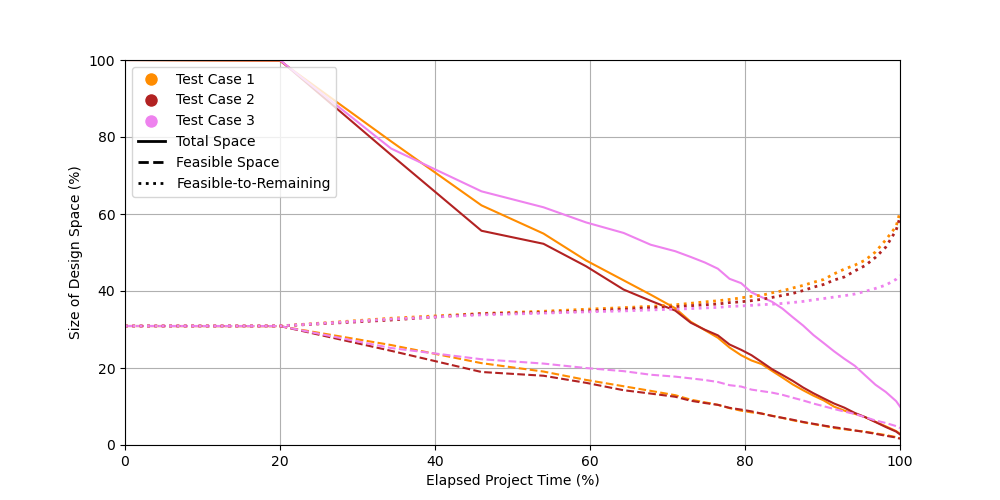
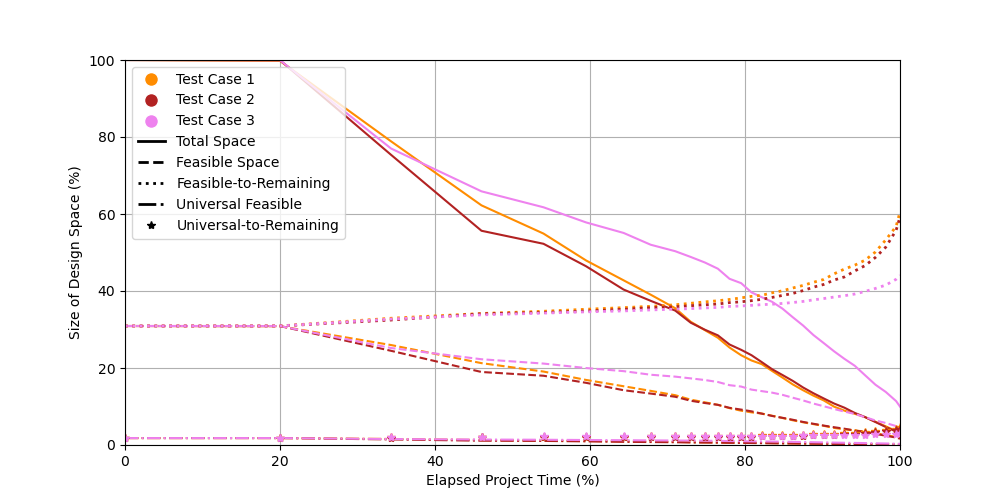
Updated data and figures

Changed region(s): [[0.124, 0.84, 0.899, 0.9], [0.124, 0.39, 0.341, 0.48], [0.341, 0.21, 0.372, 0.24]]

diff --git a/Python Code/Simulation_Results_DC_Reqs_1depth/plot_data.py b/Python Code/Simulation_Results_DC_Reqs_1depth/plot_data.py
@@ -20,46 +20,39 @@ from matplotlib.lines import Line2D
 """
 SECONDARY FUNCTION
 """
-def plotData(data, label_prefix, linestyle, colors, color_idx):
+def plotData(data, label_prefix, linestyle, colors, color_idx, marker=None):
     """
-    Description
-    -----------
     Plots data points for each test case within a given dataset.
-
+    
     Parameters
     ----------
     data : Dictionary
-        Each key is a test case identifier and each value is another dictionary
+        Each key is a test case identifier, and each value is another dictionary
         mapping iteration numbers to data points.
     label_prefix : String
         A prefix for the label that will be added before each test case's
-        identifier in the plot legend
+        identifier in the plot legend.
     linestyle : String
-        Style of line for plotting
+        Style of line for plotting. Use 'None' for no line.
     colors : List
-        Color of line for plotting
+        List of colors for plotting lines.
     color_idx : Integer
         Current position in the `colors` list from which to start coloring the
-        plotted lines
+        plotted lines.
+    marker : String, optional
+        Marker style. Default is None, which means no marker.
 
     Returns
     -------
     color_idx : Integer
-        Updated position in the `colors` list
+        Updated position in the `colors` list.
     """
     
-    # Loop through each test case's data
     for test_case, data_points in data.items():
-        
-        # Sort data points by its time iteration keys
         sorted_data_points = sorted(data_points.items(), key=lambda x: x[0])
-        
-        # Find maximum of sorted data
         max_iteration = max(sorted_data_points, key=lambda x: x[0])[0]
         
-        # Gather x and y data point percentages
-        x_values = [iteration / max_iteration * 100 \
-                    for iteration, _ in sorted_data_points]
+        x_values = [iteration / max_iteration * 100 for iteration, _ in sorted_data_points]
         y_values = [value for _, value in sorted_data_points]
         
         # Define custom linewidth for particular line styles
@@ -68,83 +61,60 @@ def plotData(data, label_prefix, linestyle, colors, color_idx):
         else:
             linewidth = 1.5
         
-        # Plot the data
-        plt.plot(x_values, y_values, label=f'{test_case} ({label_prefix})',
+        plt.plot(x_values, y_values, label=f'{label_prefix} {test_case}',
                  color=colors[color_idx % len(colors)], linestyle=linestyle,
-                 linewidth=linewidth)
+                 linewidth=linewidth, marker=marker)
         
-        # Increase the color index by 1
         color_idx += 1
-        
-    # Return the updated color index
+    
     return color_idx
 
 
 """
 FUNCTIONS
 """
-def plotDisciplines(all_disciplines_data, feas1_disciplines_data,
-                    feas2_disciplines_data):
-    """
-    Description
-    -----------
-    Visualizes the progression of design spaces across different disciplines by
-    plotting data for space remaining, feasible space remaining, and
-    feasible-to-remaining space.
-
-    Parameters
-    ----------
-    all_disciplines_data : Dictionary
-        Contains total space remaining data for each discipline over elapsed
-        time
-    feas1_disciplines_data : Dictionary
-        Contains feasible-to-remaining space data for each discipline over
-        elapsed time
-    feas2_disciplines_data : Dictionary
-        Contains feasible space remaining data for each discipline over elapsed
-        time
-    """
-    
-    # Initialize colors and line styles
+def plotDisciplines(all_disciplines_data, feas1_disciplines_data, feas2_disciplines_data, ufeas1_disciplines_data, ufeas2_disciplines_data):
+    # Initialize colors
     colors = ['darkorange', 'firebrick', 'violet']
-    line_styles = ['-', '--', ':']
-    data_groups = ['Total Space', 'Feasible Space', 'Feasible-to-Remaining']
+    # Line styles: Solid, Dashed, Dotted, DashDot, and No line (use markers only)
+    line_styles = ['-', '--', ':', '-.', 'None']
+    markers = ['', '', '', '', '*']  # Corresponding markers, with '*' for the last style
+    data_groups = ['Total Space', 'Feasible Space', 'Feasible-to-Remaining', 'Universal Feasible', 'Universal-to-Remaining']
     
-    # Loop through each discipline's data
     for discipline, all_test_cases_data in all_disciplines_data.items():
-        
-        # Initialize figure
         plt.figure(figsize=(10, 5))
         
-        # Create custom legend labels
-        color_handles = [Line2D([0], [0], marker='o', color='w',
-                         label=f'Test Case {i+1}', markerfacecolor=color,
-                         markersize=10) for i, color in enumerate(colors)]
-        line_style_handles = [Line2D([0], [0], color='black', linewidth=2,
-                              linestyle=ls, label=data_groups[i]) \
-                              for i, ls in enumerate(line_styles)]
+        color_handles = [Line2D([0], [0], marker='o', color='w', label=f'Test Case {i+1}', markerfacecolor=color, markersize=10) for i, color in enumerate(colors)]
+        line_style_handles = [Line2D([0], [0], color='black', linewidth=2, linestyle=ls, marker=mk, label=data_groups[i]) for i, (ls, mk) in enumerate(zip(line_styles, markers))]
         
         # Retrieve disciplines of feasible space data
         feas1_test_cases_data = feas1_disciplines_data.get(discipline, {})
         feas2_test_cases_data = feas2_disciplines_data.get(discipline, {})
+        ufeas1_test_cases_data = ufeas1_disciplines_data.get(discipline, {})
+        ufeas2_test_cases_data = ufeas2_disciplines_data.get(discipline, {})
         
         # Plot data for space remaining
         color_idx = 0
-        color_idx = plotData(all_test_cases_data, 'All', line_styles[0], 
-                             colors, color_idx)
+        color_idx = plotData(all_test_cases_data, 'All', line_styles[0], colors, 0, markers[0])
         
         # Plot data for feasible space remaining
         color_idx = 0
-        color_idx = plotData(feas2_test_cases_data, 'Feas2', line_styles[1], 
-                             colors, color_idx)
+        color_idx = plotData(feas2_test_cases_data, 'Feas2', line_styles[1], colors, 0, markers[1])
         
         # Plot data for feasible-to-remaining space
         color_idx = 0
-        color_idx = plotData(feas1_test_cases_data, 'Feas1', line_styles[2], 
-                             colors, color_idx)
+        color_idx = plotData(feas1_test_cases_data, 'Feas1', line_styles[2], colors, 0, markers[2])
+        
+        # Plot data for universal feasible space remaining
+        color_idx = 0
+        color_idx = plotData(ufeas2_test_cases_data, 'uFeas2', line_styles[3], colors, 0, markers[3])
+        
+        # Plot data for universal feasible-to-remaining space
+        color_idx = 0
+        color_idx = plotData(ufeas1_test_cases_data, 'uFeas1', line_styles[4], colors, 0, markers[4])
         
         # Plot legend
-        plt.legend(handles=color_handles+line_style_handles, loc='upper left')
+        plt.legend(handles=color_handles + line_style_handles, loc='upper left')
         
         # Set x- and y-axis labels
         plt.xlabel('Elapsed Project Time (%)')
@@ -272,6 +242,10 @@ with open('feas1_disciplines.pkl', 'rb') as f:
     feas1_disciplines_data = pickle.load(f)
 with open('feas2_disciplines.pkl', 'rb') as f:
     feas2_disciplines_data = pickle.load(f)
+with open('ufeas1_disciplines.pkl', 'rb') as f:
+    ufeas1_disciplines_data = pickle.load(f)
+with open('ufeas2_disciplines.pkl', 'rb') as f:
+    ufeas2_disciplines_data = pickle.load(f)
 # with open('Test_Case_3.pkl', 'rb') as f:
 #     Test_Case_3 = pickle.load(f)
 # with open('Discips.pkl', 'rb') as f:
@@ -279,7 +253,8 @@ with open('feas2_disciplines.pkl', 'rb') as f:
 
 # Create line plots for Disciplines 1, 2, and 3
 plotDisciplines(all_disciplines_data, feas1_disciplines_data,
-                feas2_disciplines_data)
+                feas2_disciplines_data, ufeas1_disciplines_data,
+                ufeas2_disciplines_data)
 
 # Create Heat Map Plot of Test Case 3 for each discipline
 # plotHeatmaps(Test_Case_3, 0, Discips[0]['ins'])

diff --git a/Python Code/Simulation_Results_DC_Reqs_1depth/organize_data.py b/Python Code/Simulation_Results_DC_Reqs_1depth/organize_data.py
@@ -18,7 +18,28 @@ import pickle
 """
 TERTIARY FUNCTIONS
 """
-def universalContribution(Discips, index, ind_discip, ind_data):
+def universalContribution(Discips, index, ind_discip):
+    """
+    Description
+    -----------
+    Determine the fraction of possible feasible solutions for a design point in
+    interdependent discipline's when it is passing in the main discipline.
+
+    Parameters
+    ----------
+    Discips : Dictionary
+        All of the information pertaining to each discipline
+    index : Integer
+        Row of the discretized design point in the original design space
+    ind_discip : Integer
+        Main discipline of a design point
+
+    Returns
+    -------
+    TYPE
+        DESCRIPTION.
+
+    """
     
     # Initialize numerator and denominator values for fraction
     numerator = 0
@@ -49,7 +70,8 @@ def universalContribution(Discips, index, ind_discip, ind_data):
             # Find interdependent design point indices with interdependent 
             # design point variable value matching main discipline design point 
             # variable value
-            mask = np.isclose(Discips[i]['tested_ins'][:, j], Discips[ind_discip]['tested_ins'][index, var_main])
+            mask = np.isclose(Discips[i]['tested_ins'][:, j], 
+                Discips[ind_discip]['tested_ins'][index, var_main])
             
             # Add to the numerator for number of times that interdependent
             # discipline's pass? value is True
@@ -102,7 +124,7 @@ def sharedIndices(larger_array, smaller_array):
     return indices
 
 
-def countBooleans(index_list, Discips, ind_discip, ind_data):
+def countBooleans(index_list, Discips, ind_discip):
     """
     Description
     -----------
@@ -140,7 +162,7 @@ def countBooleans(index_list, Discips, ind_discip, ind_data):
             true_count += 1
             
             # Add 0 or 1 to the universal True values counter
-            true_count_all += universalContribution(Discips, index, ind_discip, ind_data)
+            true_count_all += universalContribution(Discips, index, ind_discip)
             
     # Return the sum of the true count and the universal true count
     return true_count, true_count_all
@@ -254,8 +276,8 @@ def fillSpaceRemaining(test_case, set_of_times, Discips):
                                         dic_data['space_remaining'])
                 
                 # Count and record True values for indices in both
-                true_count, true_count_all = \
-                    countBooleans(matches, Discips, ind_discip, ind_data)
+                true_count, true_count_all = countBooleans(matches, Discips,
+                                                           ind_discip)
                 
                 # Append first count to the feasible dictionary
                 feas_rem[run_name][discip_name][dic_data['iter']].append\
